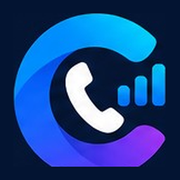
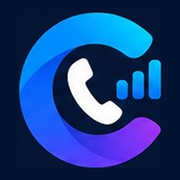
feat(android): upload the phone's own call recording so both voices play
Callio cannot record the other person's line on Android, but the phone's built-in recorder can. After each lead call,
Callio finds that recording in the phone's audio library (matched by time and number), copies it into the existing upload
queue and uploads it. Needs the audio-files permission. Works when the phone's own Phone app, not Callio, is the default.

Also: the complete Callio mark (the earlier crop cut off the bottom of the C) for the launcher icon, menu, favicons.

diff --git a/android/app/src/main/java/com/levoy/app/sync/PhoneRecordings.kt b/android/app/src/main/java/com/levoy/app/sync/PhoneRecordings.kt
@@ -1,0 +1,119 @@
+package com.levoy.app.sync
+
+import android.Manifest
+import android.content.ContentUris
+import android.content.Context
+import android.os.Build
+import android.provider.MediaStore
+import com.levoy.app.calls.CallRecorder
+import com.levoy.app.data.Session
+import com.levoy.app.data.phoneKeyOf
+import java.io.File
+
+/**
+ * Finds the recording the phone's OWN call recorder made for a lead call, so the dashboard plays both voices.
+ *
+ * Android does not let an ordinary app record the other person's line, but the phone's built-in recorder (Xiaomi / POCO, Samsung,
+ * Oppo ...) can, and it saves a normal audio file. This looks for that file in the phone's audio library, matches it to the call
+ * by time and number, and copies it into the same queue [CallRecorder] uses, where [SyncWorker] uploads it.
+ *
+ * It only works when the phone's recorder is the one recording, so Callio must NOT be the default phone app for that call
+ * (the system recorder belongs to the phone's own dialler). It also only sees files the phone has added to its audio library.
+ */
+object PhoneRecordings {
+    /** Extensions the server accepts. */
+    val EXTENSIONS = listOf("m4a", "mp3", "amr", "3gp", "ogg", "wav")
+
+    private const val LOOK_BACK_DAYS = 3L
+    private const val MIN_SECONDS = 3
+    private const val TAG = "PhoneRecordings"
+
+    /** Read-audio permission differs by Android version. */
+    fun permission(): String =
+        if (Build.VERSION.SDK_INT >= 33) Manifest.permission.READ_MEDIA_AUDIO else Manifest.permission.READ_EXTERNAL_STORAGE
+
+    fun canRead(c: Context) = CallLogReader.has(c, permission())
+
+    /** One audio file from the phone's library, with just what is needed to decide if it belongs to a call. */
+    data class Candidate(val id: Long, val name: String, val folder: String, val addedMs: Long, val durationMs: Long)
+
+    /**
+     * Pure matching rule (kept separate so it can be tested): which file, if any, is the recording of this call?
+     * A call started at [callStartMs] and was talked on for [callSeconds]. The recorder finishes its file about when the call ends.
+     */
+    fun pick(candidates: List<Candidate>, number: String, callStartMs: Long, callSeconds: Int, alreadyUsed: Set<Long>): Candidate? {
+        val digits = number.filter { it.isDigit() }.takeLast(10)
+        val earliest = callStartMs + callSeconds * 1000L - 30_000L           // the file is finished about when the call ends
+        val latest = callStartMs + callSeconds * 1000L + 5 * 60_000L
+        return candidates
+            .filter { it.id !in alreadyUsed && it.addedMs in earliest..latest }
+            .filter { looksLikeCallRecording(it) }
+            .filter { c ->
+                // Named after the number: trust it. Otherwise the length has to agree with the call's talk time.
+                (digits.length >= 7 && c.name.filter { it.isDigit() }.contains(digits)) ||
+                    (c.durationMs <= 0 || kotlin.math.abs(c.durationMs / 1000 - callSeconds) <= 10)
+            }
+            .minByOrNull { kotlin.math.abs(it.addedMs - (callStartMs + callSeconds * 1000L)) }
+    }
+
+    /** Folder or file name says "call" (Xiaomi: MIUI/sound_recorder/call_rec, Samsung: Recordings/Call, "Call@+91...mp3"). */
+    private fun looksLikeCallRecording(c: Candidate): Boolean {
+        val s = (c.folder + "/" + c.name).lowercase()
+        return "call" in s || "phone" in s
+    }
+
+    /**
+     * For each recent lead call, copy the phone's recording into the upload queue (once). Returns how many were queued.
+     * Does nothing without the audio permission, or when the person has Call Recording switched off.
+     */
+    fun importFor(c: Context, session: Session, leadKeys: Set<String>): Int {
+        if (!session.callRecording || !canRead(c) || leadKeys.isEmpty()) {
+            android.util.Log.i(TAG, "skipped: recording=${session.callRecording} audioPermission=${canRead(c)} leads=${leadKeys.size}")
+            return 0
+        }
+        val since = System.currentTimeMillis() - LOOK_BACK_DAYS * 86_400_000L
+        val calls = CallLogReader.read(c, since, only = leadKeys).filter { it.seconds >= MIN_SECONDS }
+        if (calls.isEmpty()) return 0
+        val library = readLibrary(c, since - 60_000L)
+        android.util.Log.i(TAG, "lead calls=${calls.size} audioFilesSeen=${library.size}")
+        if (library.isEmpty()) return 0
+        val used = session.importedRecordingIds.toMutableSet()
+        val doneCalls = session.importedRecordingCalls.toMutableSet()
+        var queued = 0
+        for (call in calls) {
+            val key = phoneKeyOf(call.number) ?: continue
+            val callId = "${call.date}_$key"
+            if (callId in doneCalls) continue
+            val file = pick(library, call.number, call.date, call.seconds, used) ?: continue
+            val ext = file.name.substringAfterLast('.', "").lowercase().takeIf { it in EXTENSIONS } ?: continue
+            val target = File(CallRecorder.dir(c), "${call.date}_${key}_${call.seconds}.$ext")
+            val ok = runCatching {
+                c.contentResolver.openInputStream(ContentUris.withAppendedId(MediaStore.Audio.Media.EXTERNAL_CONTENT_URI, file.id))?.use { input ->
+                    target.outputStream().use { input.copyTo(it) }
+                } != null && target.length() > 0
+            }.getOrDefault(false)
+            android.util.Log.i(TAG, "matched ${file.name} to call $callId, copied=$ok")
+            if (ok) { used += file.id; doneCalls += callId; queued++ } else target.delete()
+        }
+        session.importedRecordingIds = used.toList().takeLast(300).toSet()
+        session.importedRecordingCalls = doneCalls.toList().takeLast(300).toSet()
+        return queued
+    }
+
+    private fun readLibrary(c: Context, addedAfterMs: Long): List<Candidate> {
+        val out = ArrayList<Candidate>()
+        val folderCol = if (Build.VERSION.SDK_INT >= 29) MediaStore.Audio.Media.RELATIVE_PATH else MediaStore.Audio.Media.DATA
+        val cols = arrayOf(MediaStore.Audio.Media._ID, MediaStore.Audio.Media.DISPLAY_NAME, folderCol, MediaStore.Audio.Media.DATE_ADDED, MediaStore.Audio.Media.DURATION)
+        runCatching {
+            c.contentResolver.query(
+                MediaStore.Audio.Media.EXTERNAL_CONTENT_URI, cols, "${MediaStore.Audio.Media.DATE_ADDED} >= ?",
+                arrayOf((addedAfterMs / 1000).toString()), "${MediaStore.Audio.Media.DATE_ADDED} DESC",
+            )?.use { q ->
+                while (q.moveToNext() && out.size < 500) {
+                    out += Candidate(q.getLong(0), q.getString(1).orEmpty(), q.getString(2).orEmpty(), q.getLong(3) * 1000L, q.getLong(4))
+                }
+            }
+        }
+        return out
+    }
+}

diff --git a/android/app/src/main/java/com/levoy/app/ui/Root.kt b/android/app/src/main/java/com/levoy/app/ui/Root.kt
@@ -319,9 +319,15 @@ private fun ScreenFor(s: Screen, m: AppModel, os: Os) {
             { v ->
                 if (!v) m.setCallRecording(false)
                 else os.requestRecordAudio {
-                    if (!os.hasRecordAudio()) os.toast("Allow the microphone to record calls")
-                    else if (os.isDefaultDialer()) m.setCallRecording(true)
-                    else os.requestDialerRole { ok -> m.defaultDialer = ok; if (ok) m.setCallRecording(true) else os.toast("Set Callio as your default phone app to record calls") }
+                    // Two ways to get a recording: Callio's own (microphone, needs Callio as the default phone app), or the phone's own
+                    // call recorder (both voices), whose files Callio reads from the audio library. The second works without the first.
+                    os.requestAudioLibrary {
+                        if (os.isDefaultDialer()) m.setCallRecording(true)
+                        else if (os.hasRecordAudio() || os.hasAudioLibrary()) {
+                            m.setCallRecording(true)
+                            os.toast("On. Turn on call recording in your phone app, and Callio will upload it")
+                        } else os.toast("Allow the microphone or audio files so Callio can record calls")
+                    }
                 }
             },
             "Only calls to your assigned leads are recorded, and your admin and managers can listen to them. Tell the person you are calling that the call is recorded.",

diff --git a/android/app/src/main/java/com/levoy/app/ui/screens/SimAndHelpScreens.kt b/android/app/src/main/java/com/levoy/app/ui/screens/SimAndHelpScreens.kt
@@ -316,10 +316,10 @@ fun ToggleInfoScreen(title: String, rowIcon: @Composable () -> Unit, rowLabel: S
 }
 
 val CALL_RECORDING_BULLETS = listOf(
-    "Recording works only while Callio is your default phone app, so calls placed and answered in Callio's own call screen are the ones recorded.",
-    "Only calls to leads assigned to you are recorded. Other calls are never recorded.",
-    "Android lets apps record through the microphone only, so the other person is clearly heard when the call is on speaker. Earpiece calls may capture only your voice.",
-    "A \"Recording\" notification stays on screen for the whole call. Recordings upload to your team's Callio workspace when you are online.",
+    "To hear both voices, turn on call recording in your phone's own Phone app. Callio finds that recording after the call and uploads it to your team's workspace.",
+    "That needs Callio's permission to read audio files, and works only while your phone's own Phone app (not Callio) is the default phone app.",
+    "If Callio is your default phone app, it records through the microphone instead. Android lets apps record the microphone only, so the other person is heard only when the call is on speaker.",
+    "Only calls to leads assigned to you are recorded or uploaded. Other calls never are.",
     "Always tell the person you are calling that the call is being recorded.",
 )
 

diff --git a/android/app/src/main/java/com/levoy/app/data/Api.kt b/android/app/src/main/java/com/levoy/app/data/Api.kt
@@ -97,10 +97,13 @@ class Api(private val session: Session) {
     }
     suspend fun uploadCalls(events: List<Map<String, Any?>>) { raw("POST", "/calls/batch", mapOf("events" to events)) }
     /** Attach a finished call recording (m4a) to a call the server already holds. */
+    private fun audioType(f: java.io.File) = when (f.extension.lowercase()) {
+        "mp3" -> "audio/mpeg"; "amr" -> "audio/amr"; "3gp" -> "audio/3gpp"; "ogg" -> "audio/ogg"; "wav" -> "audio/wav"; else -> "audio/mp4"
+    }
     suspend fun uploadRecording(callId: Int, file: java.io.File, durationSeconds: Int) = withContext(Dispatchers.IO) {
         val body = MultipartBody.Builder().setType(MultipartBody.FORM)
             .addFormDataPart("duration", durationSeconds.toString())
-            .addFormDataPart("recording", file.name, file.asRequestBody("audio/mp4".toMediaType())).build()
+            .addFormDataPart("recording", file.name, file.asRequestBody(audioType(file).toMediaType())).build()
         val req = Request.Builder().url("${session.serverUrl}/calls/$callId/recordings").header("Authorization", "Bearer ${session.token}").post(body).build()
         val res = try { client.newCall(req).execute() } catch (e: Exception) { throw ApiException("Cannot reach the server. Check your connection.", 0) }
         res.use {

diff --git a/android/app/src/main/java/com/levoy/app/sync/SyncWorker.kt b/android/app/src/main/java/com/levoy/app/sync/SyncWorker.kt
@@ -55,6 +55,7 @@ object CallSync {
                 session.lastSyncedAt = chunk.last().date
             }
             if (calls.isEmpty() && after > session.lastSyncedAt) session.lastSyncedAt = after
+            runCatching { PhoneRecordings.importFor(context, session, leadNumbers) }      // the phone's own recorder (both voices)
             uploadRecordings(context, session, api)
             reportDevice(context, api)
             Result.Done(uploaded)
@@ -71,7 +72,7 @@ object CallSync {
      * A recording whose call is not on the server yet waits for the next sync; one older than [KEEP_DAYS] is dropped.
      */
     private suspend fun uploadRecordings(context: Context, session: Session, api: Api) {
-        val files = CallRecorder.dir(context).listFiles { f -> f.name.endsWith(".m4a") }?.toList().orEmpty()
+        val files = CallRecorder.dir(context).listFiles { f -> f.extension.lowercase() in PhoneRecordings.EXTENSIONS }?.toList().orEmpty()
         if (files.isEmpty()) return
         val uid = session.user?.id
         val rows = runCatching { api.history(mapOf("limit" to 200, "user_id" to uid)).rows }.getOrNull() ?: return

diff --git a/android/app/src/main/java/com/levoy/app/data/Session.kt b/android/app/src/main/java/com/levoy/app/data/Session.kt
@@ -85,6 +85,14 @@ class Session(context: Context) {
         get() = p.getBoolean("call_recording", false)
         set(v) = p.edit().putBoolean("call_recording", v).apply()
 
+    /** Audio-library ids and call ids already copied from the phone's own recorder, so a recording is queued only once. */
+    var importedRecordingIds: Set<Long>
+        get() = (p.getStringSet("imported_rec_ids", emptySet()) ?: emptySet()).mapNotNull { it.toLongOrNull() }.toSet()
+        set(v) = p.edit().putStringSet("imported_rec_ids", v.map { it.toString() }.toSet()).apply()
+    var importedRecordingCalls: Set<String>
+        get() = p.getStringSet("imported_rec_calls", emptySet()) ?: emptySet()
+        set(v) = p.edit().putStringSet("imported_rec_calls", v.toSet()).apply()
+
     /** Phone keys of this person's assigned leads, refreshed on every sync; the recorder checks a live call against it. */
     var leadKeys: Set<String>
         get() = p.getStringSet("lead_keys", emptySet()) ?: emptySet()

diff --git a/android/app/src/main/java/com/levoy/app/MainActivity.kt b/android/app/src/main/java/com/levoy/app/MainActivity.kt
@@ -134,6 +134,8 @@ class MainActivity : ComponentActivity(), Os {
         if (Build.VERSION.SDK_INT >= 33) arrayOf(Manifest.permission.RECORD_AUDIO, Manifest.permission.POST_NOTIFICATIONS) else arrayOf(Manifest.permission.RECORD_AUDIO), then,
     )
     override fun hasRecordAudio() = CallLogReader.has(this, Manifest.permission.RECORD_AUDIO)
+    override fun requestAudioLibrary(then: () -> Unit) = ask(arrayOf(com.levoy.app.sync.PhoneRecordings.permission()), then)
+    override fun hasAudioLibrary() = com.levoy.app.sync.PhoneRecordings.canRead(this)
     override fun requestNotifications() { if (Build.VERSION.SDK_INT >= 33) ask(arrayOf(Manifest.permission.POST_NOTIFICATIONS)) { } }
     override fun startQuickCall() = QuickCallService.start(this)
     override fun stopQuickCall() = QuickCallService.stop(this)

diff --git a/android/app/src/main/java/com/levoy/app/Os.kt b/android/app/src/main/java/com/levoy/app/Os.kt
@@ -33,6 +33,8 @@ interface Os {
     fun requestOutgoingCalls(then: () -> Unit)
     fun requestRecordAudio(then: () -> Unit)
     fun hasRecordAudio(): Boolean
+    fun requestAudioLibrary(then: () -> Unit)
+    fun hasAudioLibrary(): Boolean
     fun startQuickCall()
     fun stopQuickCall()
     fun openRating()
